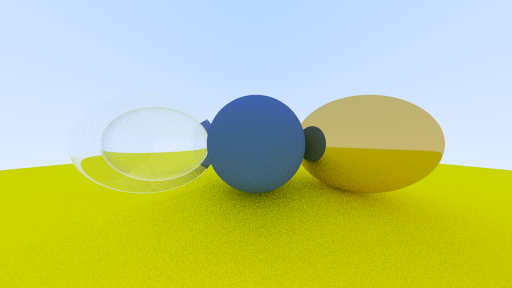
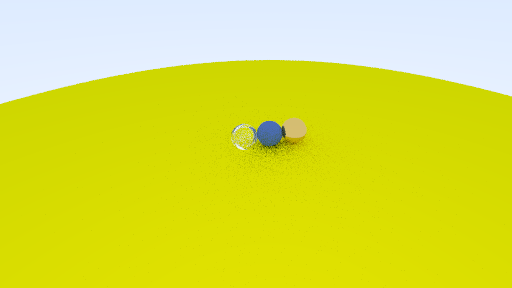
Added positionable camera, vertical fov and other camera related improvements

diff --git a/src/renderer.cpp b/src/renderer.cpp
@@ -8,19 +8,30 @@
 
 void renderer_t::render_scene(const scene::scene_t &scene, image_t &image) const
 {
+    // Setup of camera vectors.
+    const float focal_length = (camera_look_at - camera_center).magnitude();
+
+    // Camera direction vectors to establish basis vectors.
+    const math::float3 camera_front = (camera_look_at - camera_center).normalize();
+
+    const math::float3 world_up = math::float3(0.0f, 1.0f, 0.0f);
+    const math::float3 camera_right = math::float3::cross(world_up,camera_front).normalize(); 
+    const math::float3 camera_up = math::float3::cross(camera_front, camera_right).normalize();
+
+    std::cout << "camera_front, right, up : " << camera_front << " " << camera_right << " " << camera_up << std::endl;
+
     // Viewport setup.
     // The viewport is a rectangular region / grid in the 3D world that contains the image pixel grid.
     // The viewport in some terms is like the virtual window we are viewing the 3D world in.
     // In rasterization it is the near plane of the viewing frustum.
-    constexpr float viewport_width = 6.0f;
-    const float viewport_height = viewport_width / (static_cast<float>(image.width) / static_cast<float>(image.height));
+    const float viewport_height = 2.0f * tanf(math::utils::degree_to_radians(vertical_fov / 2.0f)) * focal_length;
+    const float viewport_width = viewport_height * (static_cast<float>(image.width) / static_cast<float>(image.height));
 
-    // Focal length : distance from the camera center to the viewport.
-    constexpr float focal_length = 1.0f;
+    std::cout << "Viewport width and height : " << viewport_width << ", " << viewport_height << std::endl;
 
     // Vectors along the viewport edge, u and v. Useful for getting the view space coordinate from image space coordinates.
-    const math::float3 viewport_u = math::float3(viewport_width, 0.0f, 0.0f);
-    const math::float3 viewport_v = math::float3(0.0f, -1.0f * viewport_height, 0.0f);
+    const math::float3 viewport_u = camera_right * viewport_width;
+    const math::float3 viewport_v = camera_up * -1.0f * viewport_height;
 
     // The image coordinates (row, col) are in image space, where origin is top left.
     // But the rays the camera shoots to the scene must be in view space (where the camera is at center / origin).
@@ -34,7 +45,7 @@ void renderer_t::render_scene(const scene::scene_t &scene, image_t &image) const
     const auto pixel_delta_u = viewport_u / static_cast<float>(image.width);
     const auto pixel_delta_v = viewport_v / static_cast<float>(image.height);
 
-    const auto viewport_upper_left = math::float3(-viewport_u.r / 2.0f, -1.0f * viewport_v.g / 2.0f, focal_length) - camera_center;
+    const auto viewport_upper_left = math::float3(-viewport_u.r / 2.0f, -1.0f * viewport_v.g / 2.0f, focal_length) + (camera_look_at - camera_center);
     const auto upper_left_pixel_position = viewport_upper_left + (pixel_delta_u + pixel_delta_v) * 0.5f;
 
     for (const auto row : std::views::iota(0u, image.height))

diff --git a/include/cuda-raytracer/materials/dielectric.hpp b/include/cuda-raytracer/materials/dielectric.hpp
@@ -9,7 +9,8 @@ namespace material
     class dielectric : public material_t
     {
     public:
-        // Note that here, index_of_refraction is ir / it. Basically, ir is the outside medium refractive index (air in case ray is going from air to X).
+        // Here, the index of refraction of medium is to be specified. It will be assumed that if ray is hitting front face, the 
+        // ray's ior is air (i.e 1). And, if the ray is exiting the surface, it is going into air (ior of 1).
         constexpr dielectric(const float index_of_refraction) : material_t(math::float3(1.0f, 1.0f, 1.0f)), ior(index_of_refraction) {}
 
         std::optional<math::ray_t> scatter_ray(const math::ray_t &ray, const hit_details_t &hit_details) const;

diff --git a/src/materials/dielectric.cpp b/src/materials/dielectric.cpp
@@ -52,6 +52,7 @@ namespace material
             return r0_square + (1 - r0_square) *  std::pow((1 - cos_theta), 5);
         };
 
+        // Perform reflection if either refraction is not possible, or if reflectance is above a random value.
         if (refraction_ratio * sin_theta_i > 1.0f || schlick_approximation(cos_theta_i, refraction_ratio) > utils::random_float_in_range_0_1())
         {
            return math::ray_t(hit_details.point_of_intersection, ((ray.direction.normalize() - N * 2.0f * math::float3::dot(N, ray.direction)).normalize() - hit_details.point_of_intersection).normalize());

diff --git a/include/cuda-raytracer/renderer.hpp b/include/cuda-raytracer/renderer.hpp
@@ -4,7 +4,7 @@
 #include "math/float3.hpp"
 
 #include "image.hpp"
-
+#include "math/utils.hpp"
 #include "scene/scene.hpp"
 
 // Abstraction for rendering a scene given camera position, scene, and image (that will contain the final rendered output).
@@ -16,7 +16,11 @@ public:
 
 public:
     float aspect_ratio{16.0f / 9.0f};
-    math::float3 camera_center{0.0f, 0.0f, 0.0f};
+    float vertical_fov{90.0f};
+
     u32 sample_count{100u};
     u32 max_depth{10u};
+
+    math::float3 camera_center{0.0f, 0.0f, 0.0f};
+    math::float3 camera_look_at{0.0f, 0.0f, 1.0f};
 };

diff --git a/src/main.cpp b/src/main.cpp
@@ -21,7 +21,10 @@ int main()
     renderer_t renderer{};
     renderer.camera_center = math::float3(0.0f, 0.0f, 0.0f);
     renderer.max_depth = 100;
-    renderer.sample_count = 100;
+    renderer.sample_count = 10;
+    renderer.vertical_fov = 95.0f;
+    renderer.camera_center = math::float3(-2.0f, 5.0f, -7.0f);
+    renderer.camera_look_at = math::float3(0.0f, 0.0f, 1.0f);
 
     // Materials.
     constexpr material::lambertian_diffuse ground_sphere_mat = material::lambertian_diffuse(math::float3(0.8f, 0.8f, 0.0f));

diff --git a/test/float3_test.hpp b/test/float3_test.hpp
@@ -111,6 +111,16 @@ void float3_test()
         static_assert(res == 12.0f && "float3 dot product failed!");
     }
 
+    // Cross product test.
+    {
+        constexpr math::float3 a(1.0f, 0.0f, 0.0f);
+        constexpr math::float3 b(0.0f, 1.0f, 0.0f);
+
+        constexpr auto res = math::float3::cross(a, b);
+        static_assert(res.r == 0.0f&& res.g == 0.0f&& res.b == 1.0f&& "float3 dot product failed!");
+    }
+
+ 
     // Lerp test.
     {
         constexpr math::float3 a(-1.0f, -2.0f, -3.0f);

diff --git a/include/cuda-raytracer/math/float3.hpp b/include/cuda-raytracer/math/float3.hpp
@@ -86,8 +86,13 @@ namespace math
         }
 
         static constexpr float dot(const float3 &x, const float3 &y)
-        {
+        {        
             return x.r * y.r + x.g * y.g + x.b * y.b;
+        }
+
+        static constexpr float3 cross(const float3& x, const float3& y)
+        {
+            return float3(x.g * y.b - x.b * y.g, -1.0f * (x.r * y.b - y.r * x.b), x.r * y.g - y.r * x.g);
         }
 
         // Returns (1.0f - t) * x + t * y;

diff --git a/include/cuda-raytracer/math/utils.hpp b/include/cuda-raytracer/math/utils.hpp
@@ -1,0 +1,11 @@
+#pragma once
+
+#include <cmath>
+
+namespace math::utils
+{
+    static inline float degree_to_radians(const float deg)
+    {
+        return (3.14159f / 180.0f) * deg;
+    }
+}
